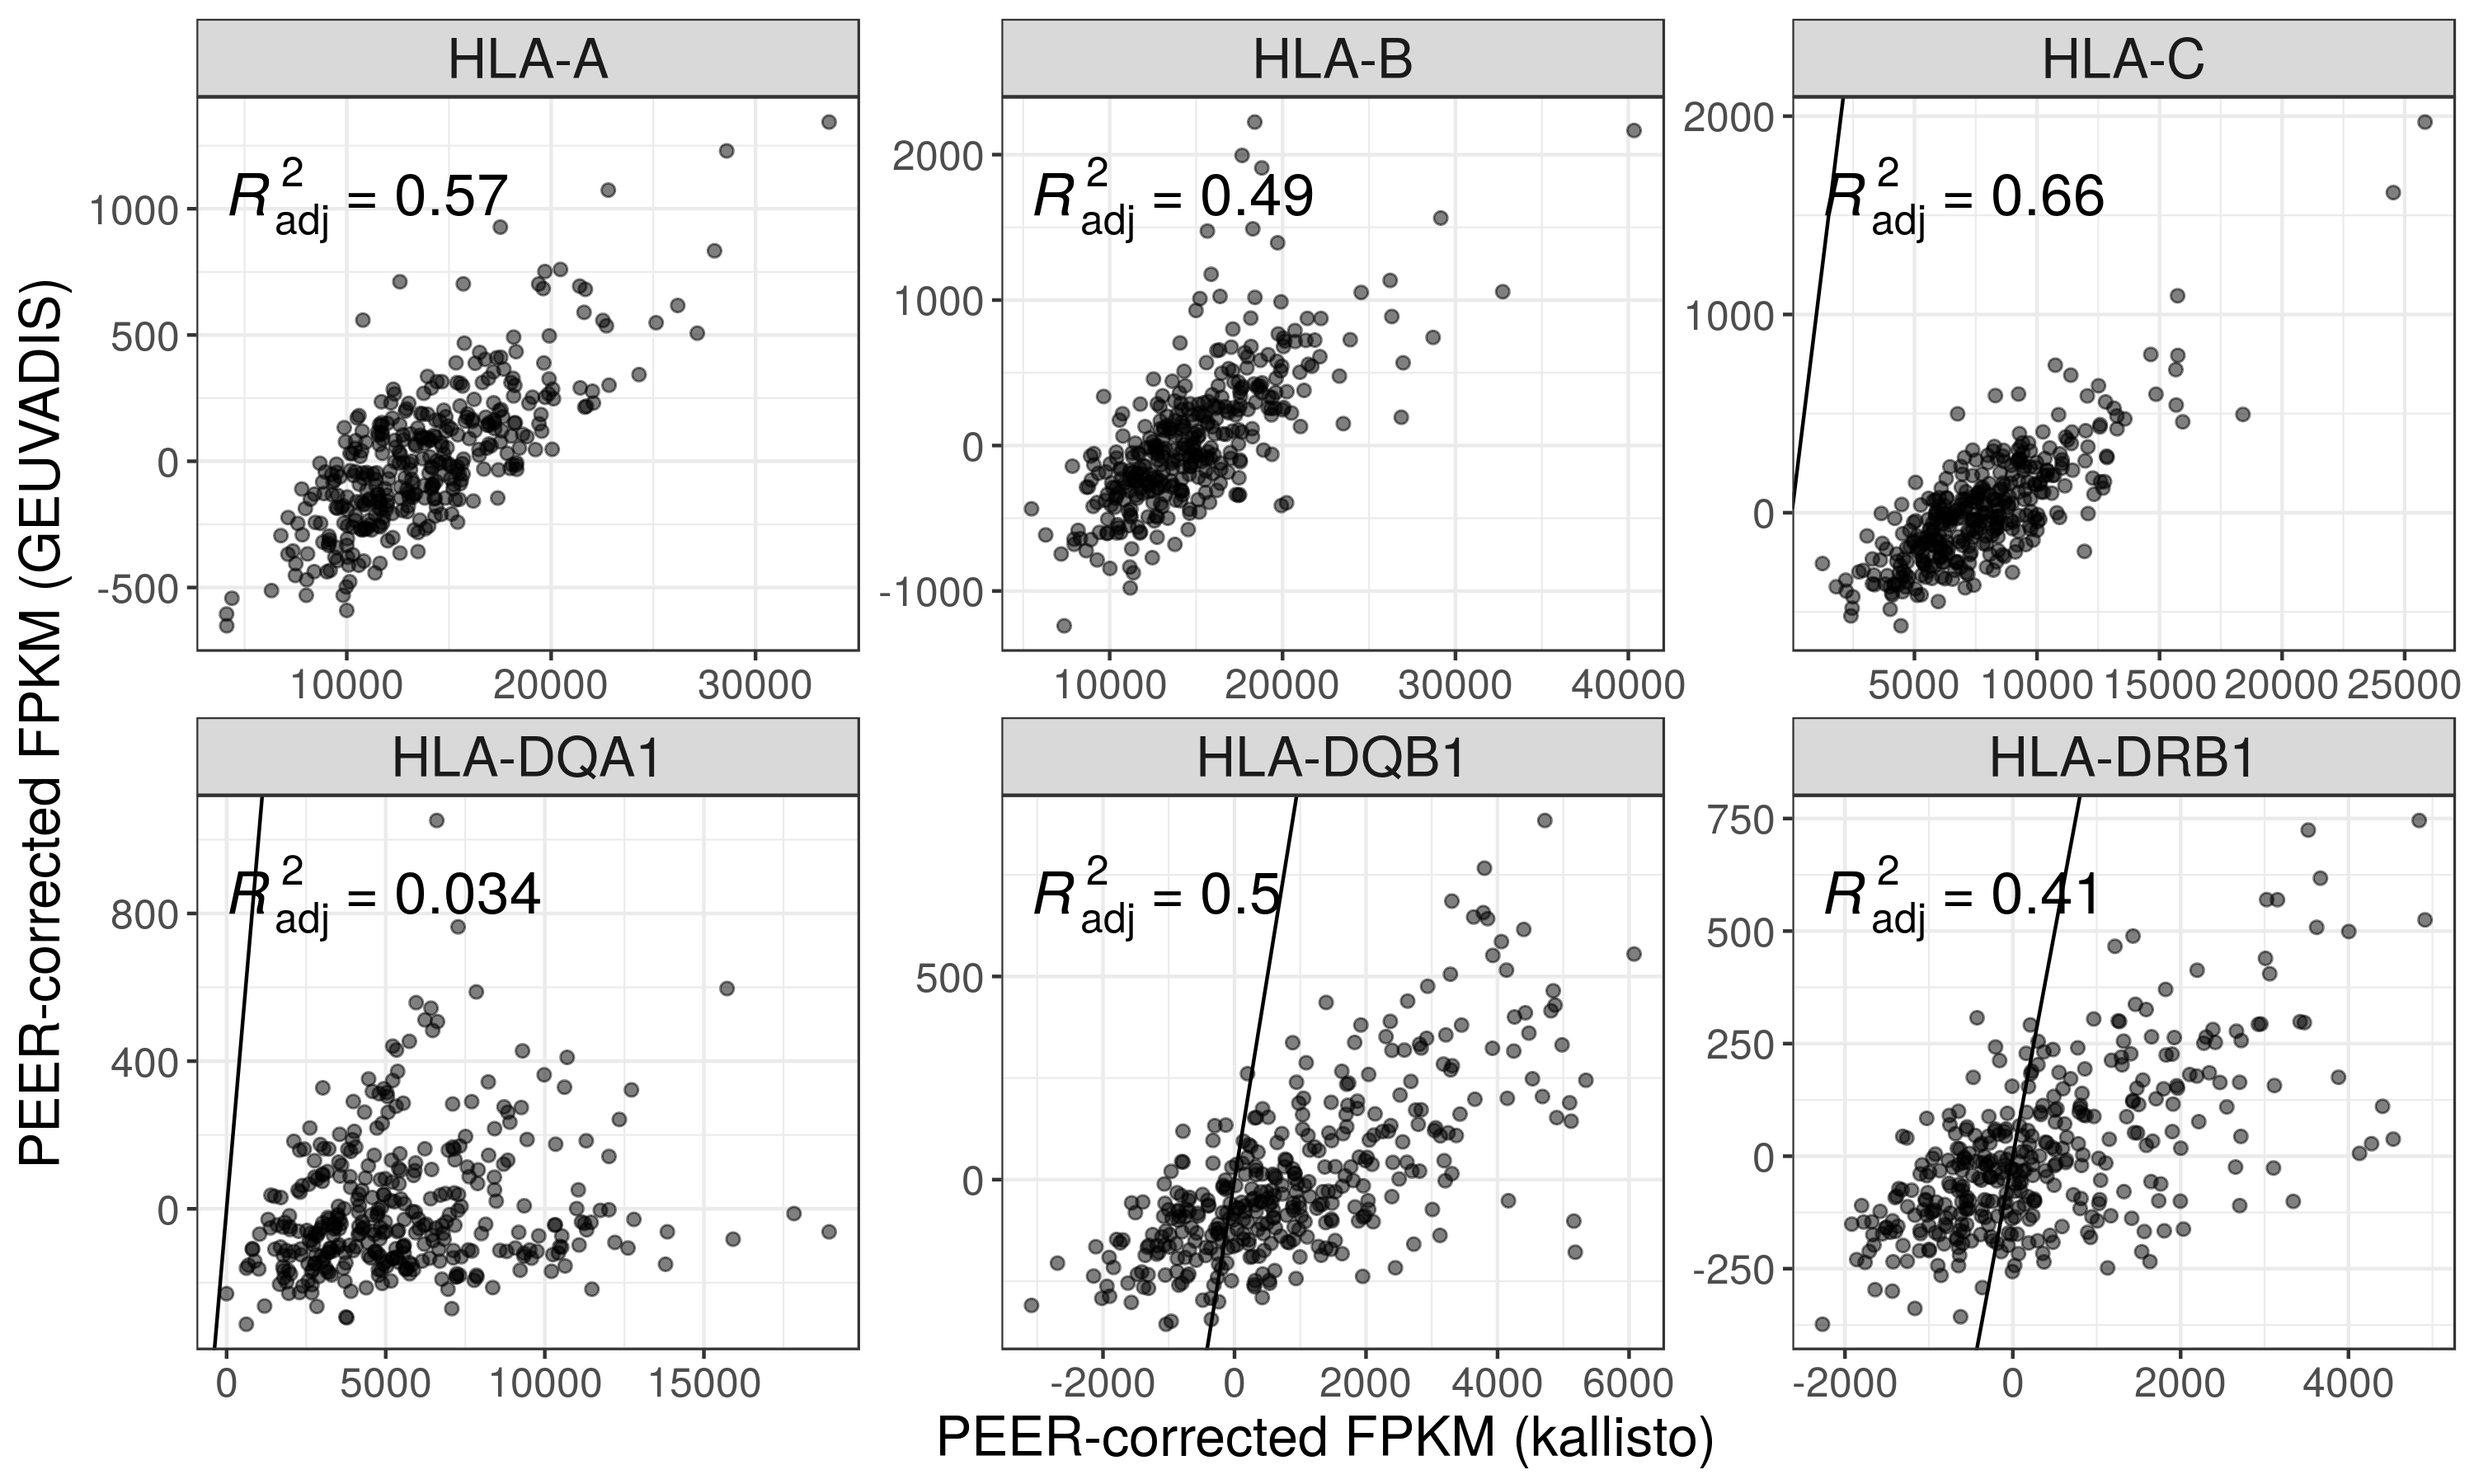
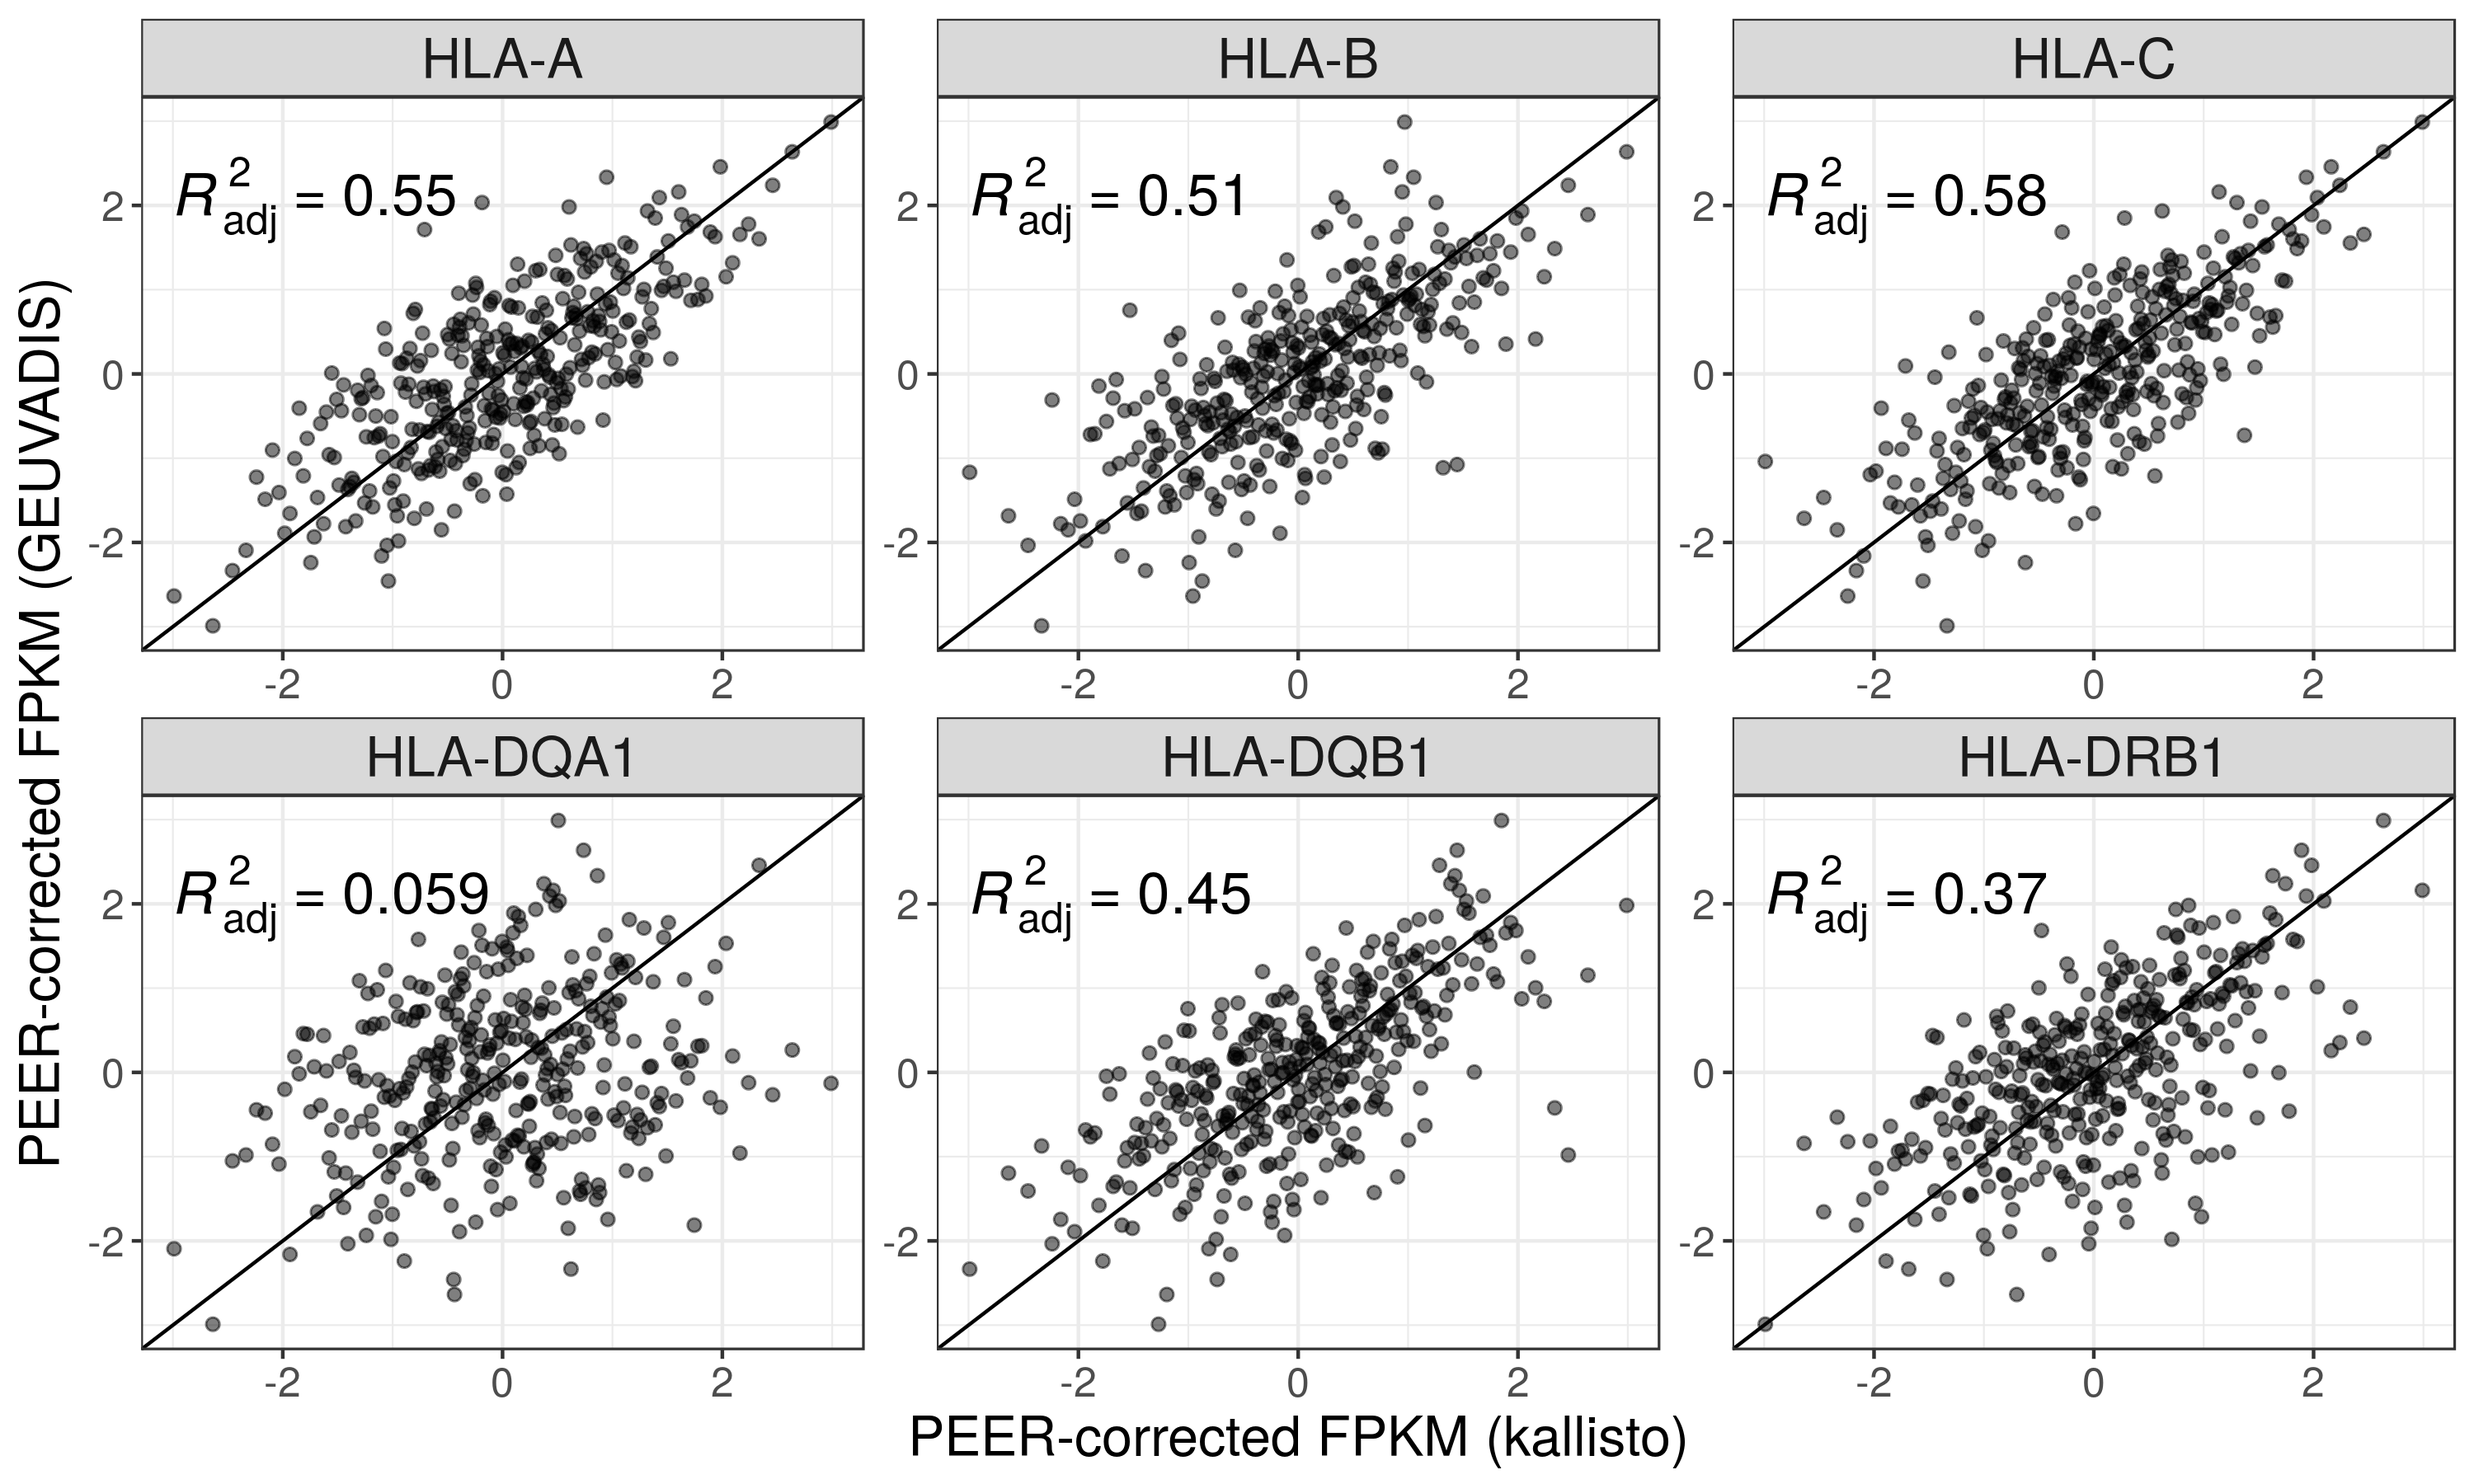
std norm PEER corrected expression and add STAR chr comparison

diff --git a/geuvadis_reanalysis/expression/report.md b/geuvadis_reanalysis/expression/report.md
@@ -24,28 +24,43 @@ Typing accuracies
 Expression estimates
 ====================
 
-kallisto-IMGT vs...
--------------------
-
-### GEM-based hlaTX
+kallisto vs GEM-based hlaTX
+---------------------------
 
 ![](./plots/kallisto_vs_hlatx.png)
 
-### STAR-Salmon
+kallisto vs STAR-Salmon
+-----------------------
 
 ![](./plots/kallisto_vs_star.png)
 
-### Geuvadis' published data
+kallisto vs Geuvadis
+--------------------
 
 ![](./plots/kallisto_vs_geuvadis.png)
 
-### kallisto – reference chromosomes only
+STAR-Salmon vs Geuvadis
+-----------------------
+
+![](./plots/star_vs_geuvadis.png)
+
+kallisto, different indices:
+----------------------------
+
+### HLA diversity vs reference chromosomes only
 
 ![](./plots/kallisto_imgt_vs_chr.png)
 
-### kallisto – reference chromosomes + alternate haplotypes + patches + scaffolds
+### HLA diversity vs reference chromosomes + alternate haplotypes + patches + scaffolds
 
 ![](./plots/kallisto_imgt_vs_all.png)
+
+STAR, different indices:
+------------------------
+
+### HLA diversity vs reference chromosomes only
+
+![](./plots/star_imgt_vs_chr.png)
 
 **..................................................................**
 
